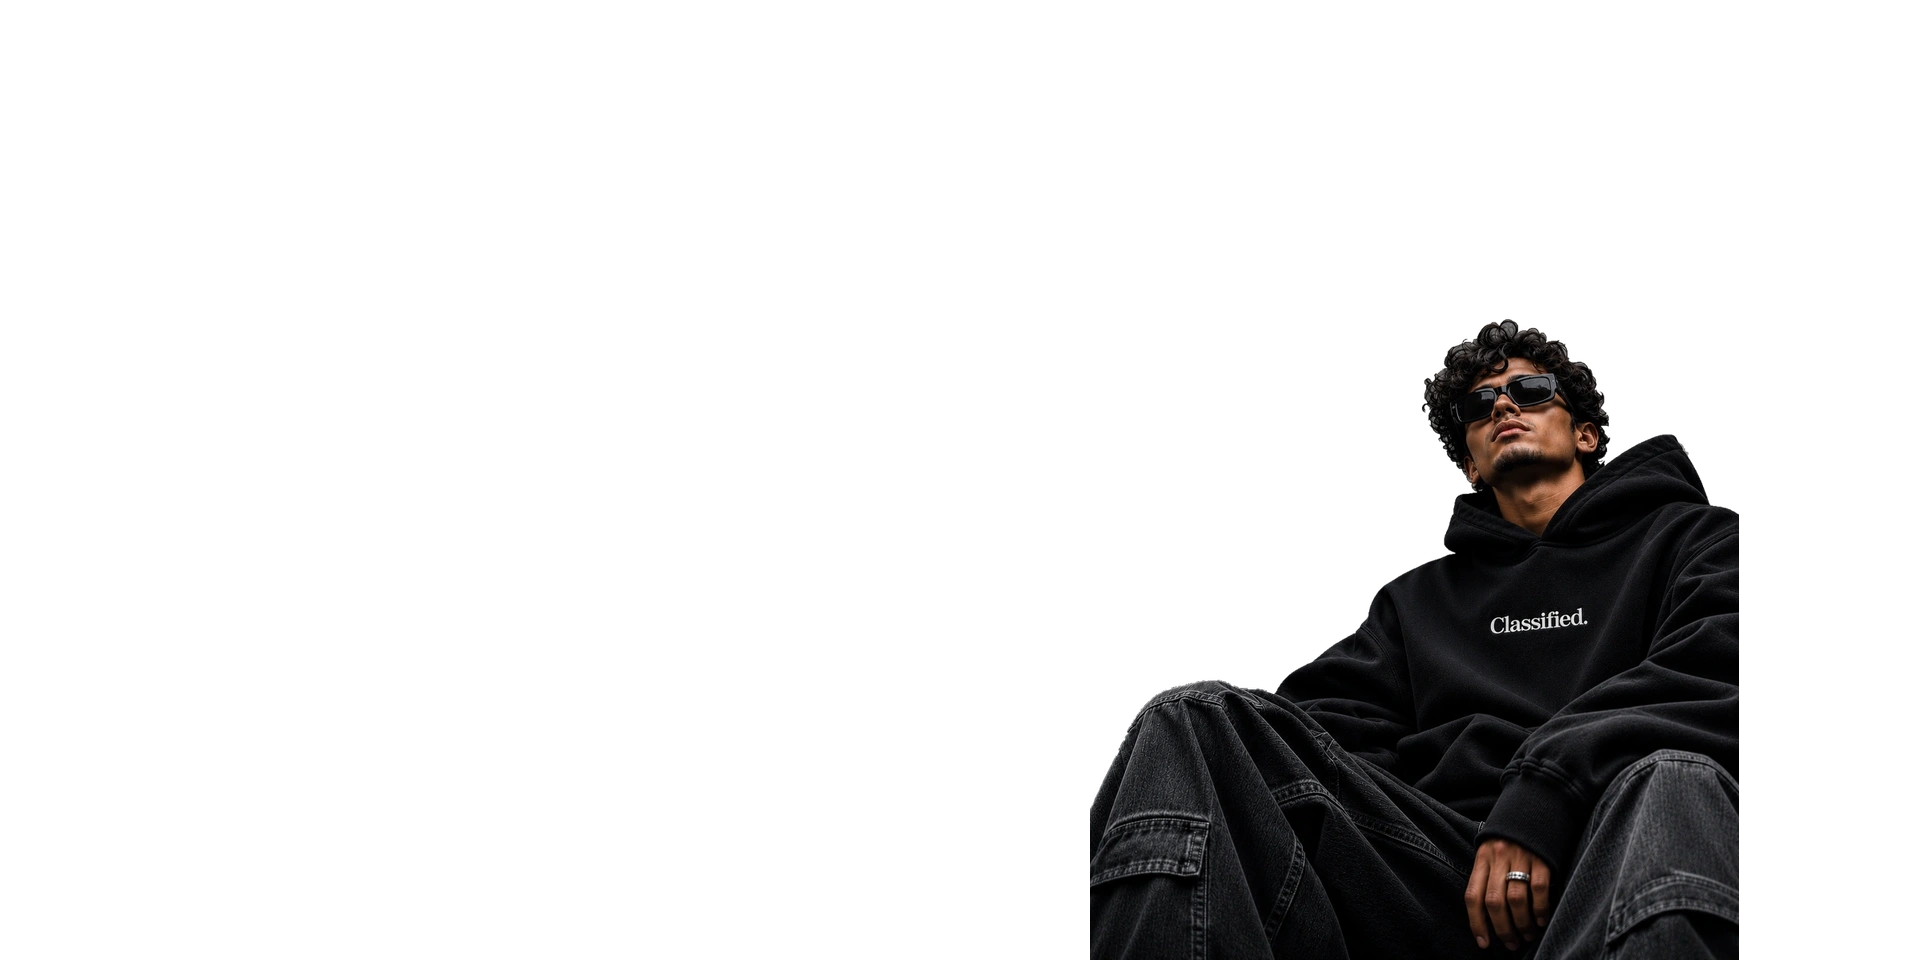
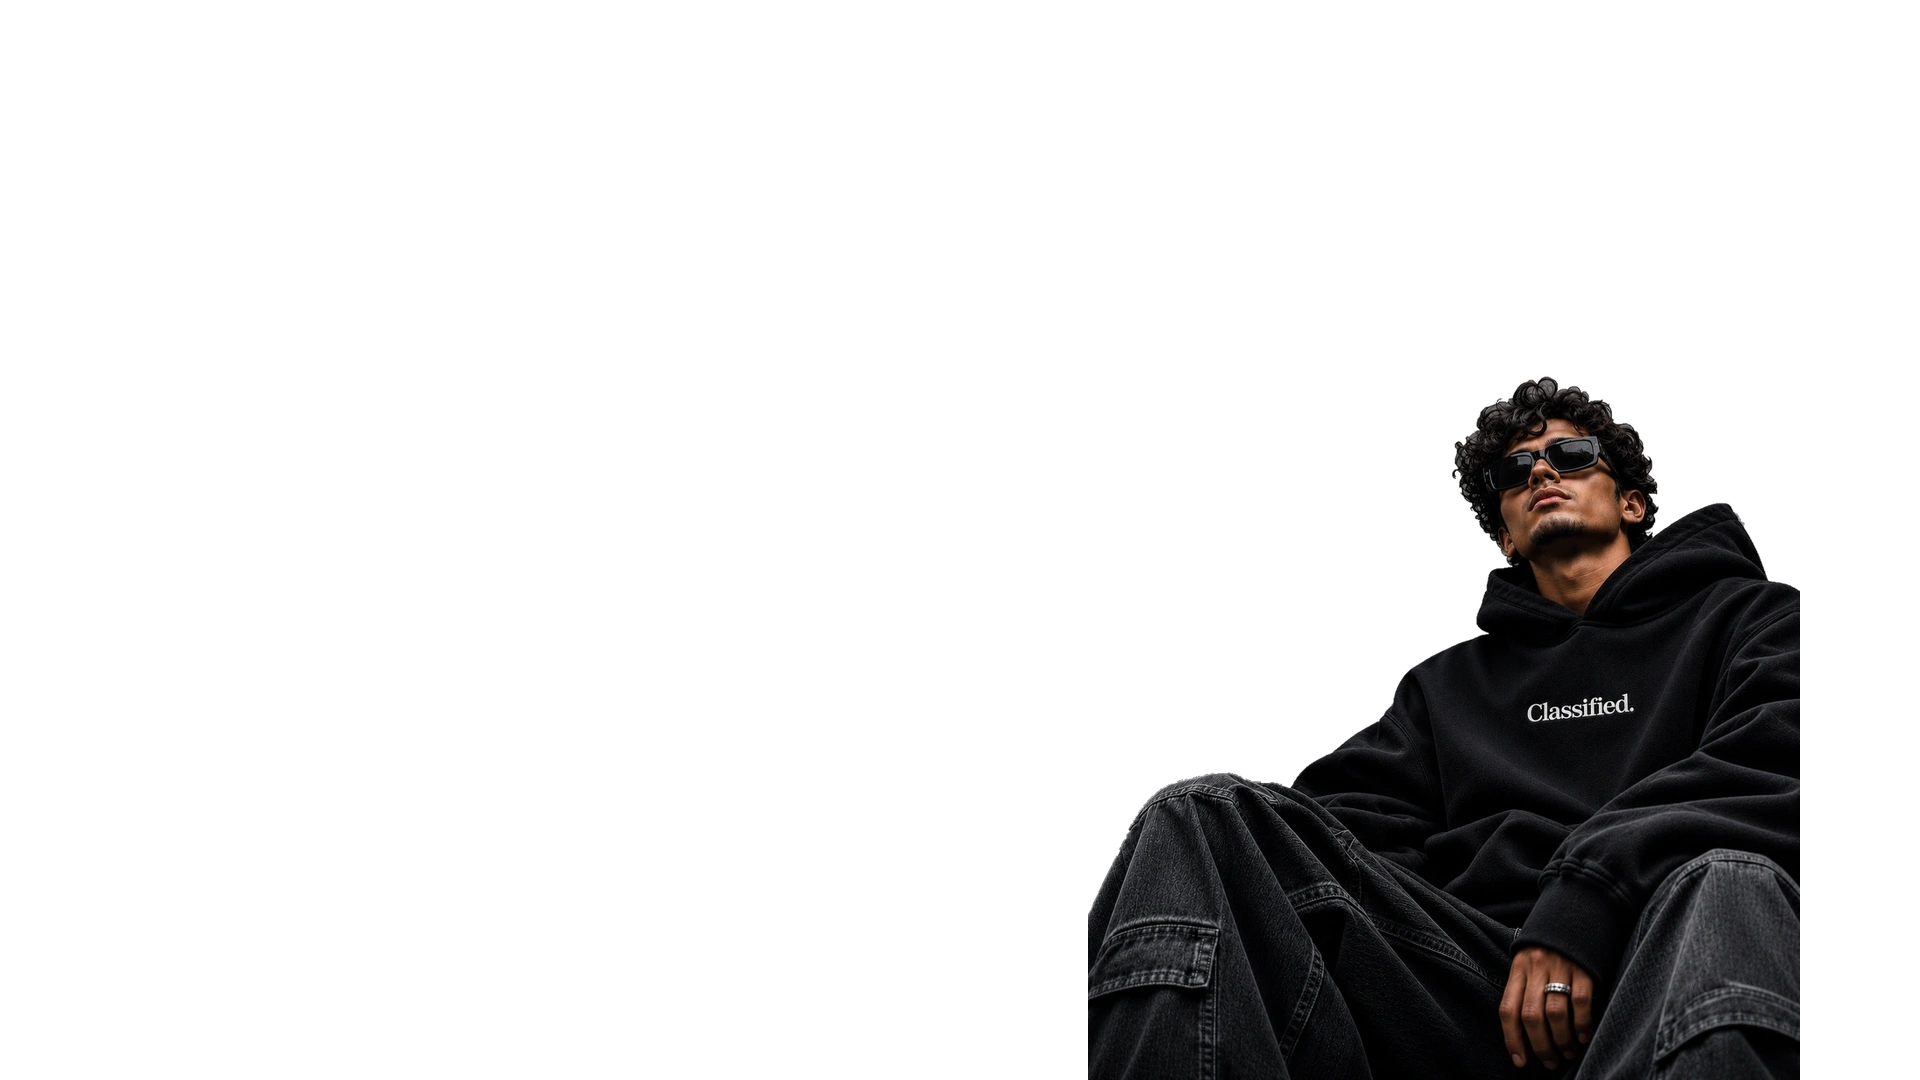
feat(hero): apply dedicated 16:9 concrete background and refined framing for desktop mode

Changed region(s): [[0.5625, 0.3125, 0.9375, 1.0]]

diff --git a/src/features/storefront/components/hero-section.tsx b/src/features/storefront/components/hero-section.tsx
@@ -87,14 +87,14 @@ export function HeroSection() {
           priority
           unoptimized
           sizes="100vw"
-          className="hero-animate-bg hidden object-cover object-right-bottom sm:block"
+          className="hero-animate-bg hidden object-cover object-right sm:block"
         />
       </div>
 
       {/* 2. Middle Layer: Ghosted Giant C Brand Mark (strictly BEHIND subject) */}
       <div
         aria-hidden="true"
-        className="hero-animate-ghost pointer-events-none absolute right-[-2%] top-[-1%] -z-20 h-[58%] w-auto select-none opacity-50 mix-blend-screen transition-transform duration-500 ease-out sm:right-[11%] sm:top-[10%] sm:h-[64%] lg:right-[13%] lg:top-[12%] lg:h-[68%] will-change-transform"
+        className="hero-animate-ghost pointer-events-none absolute right-[-2%] top-[-1%] -z-20 h-[58%] w-auto select-none opacity-50 mix-blend-screen transition-transform duration-500 ease-out sm:right-[10%] sm:top-[12%] sm:h-[64%] lg:right-[11%] lg:top-[12%] lg:h-[66%] will-change-transform"
         style={{
           transform: `translate3d(${mouseOffset.x * 24}px, ${mouseOffset.y * 24}px, 0)`,
         }}
@@ -132,7 +132,7 @@ export function HeroSection() {
           priority
           unoptimized
           sizes="100vw"
-          className="hero-animate-subject hidden object-cover object-right-bottom sm:block"
+          className="hero-animate-subject hidden object-cover object-right sm:block"
         />
       </div>
 
